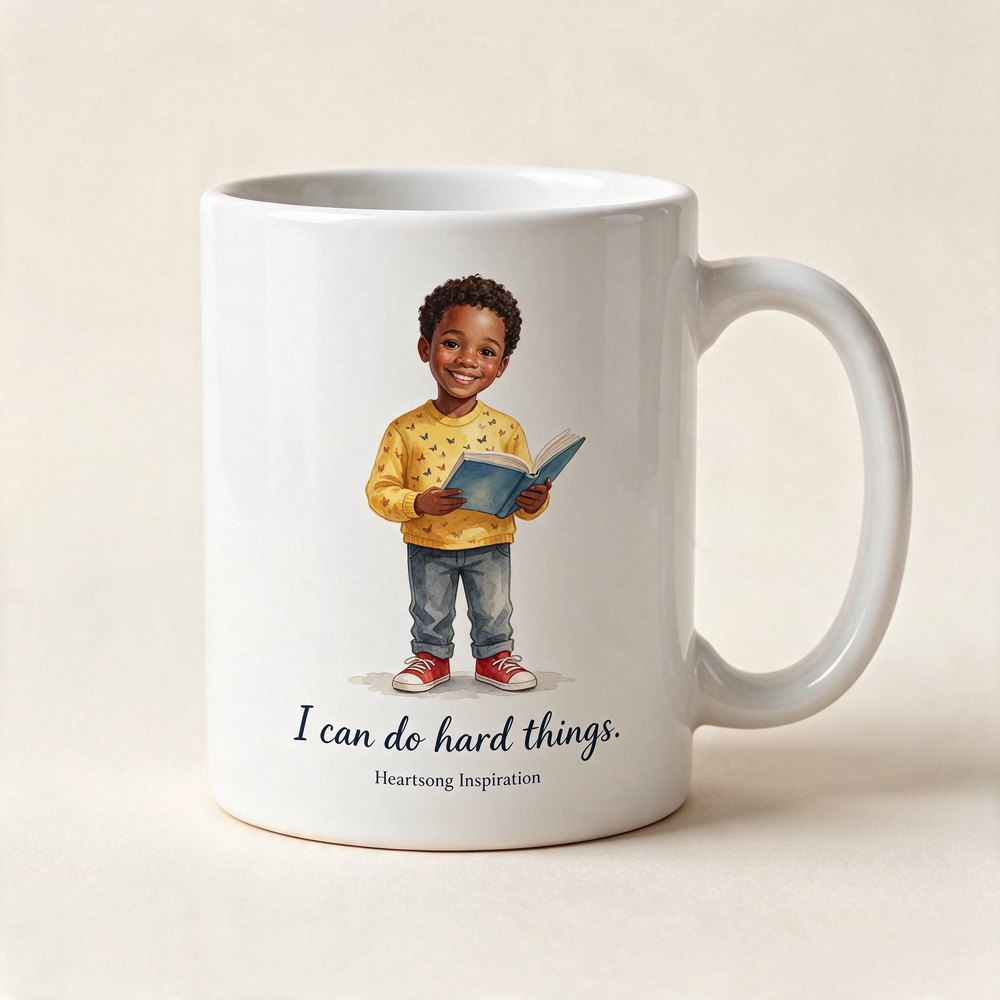
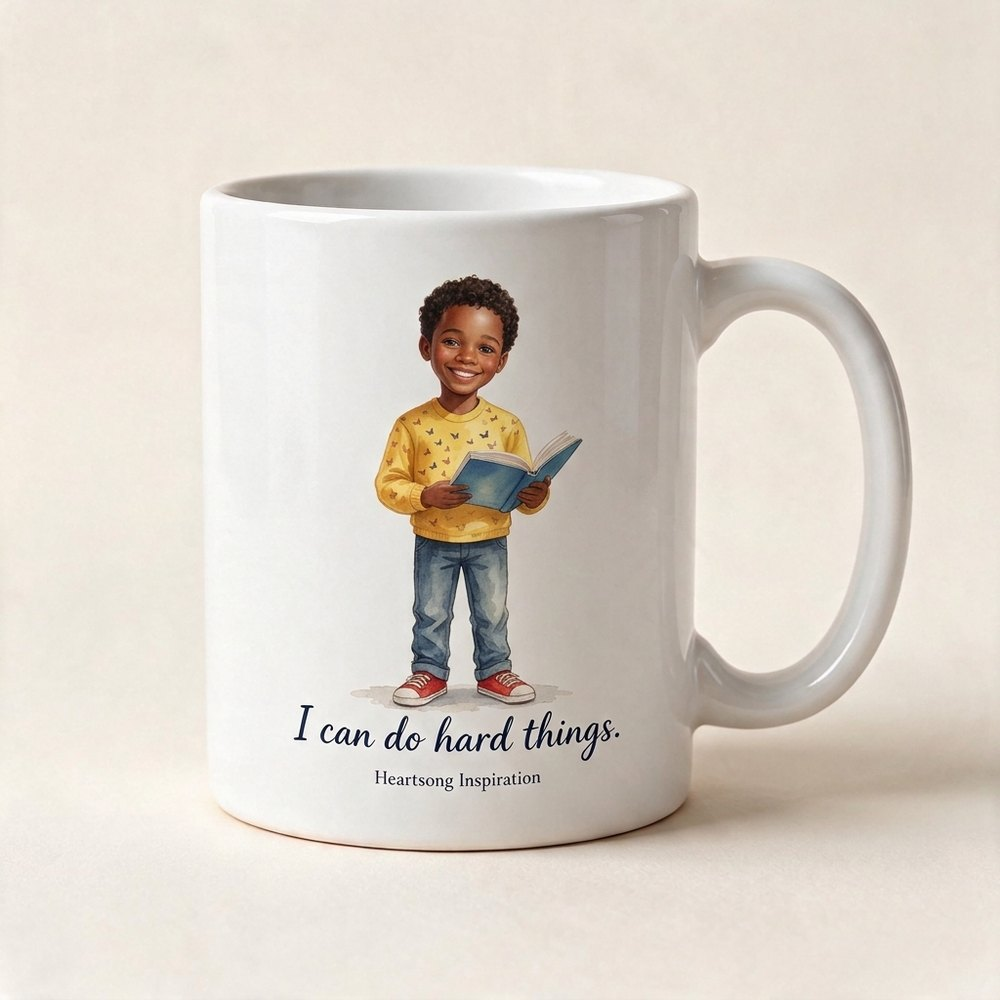
Gift shop: Isabella, Zaire, Ariana and Christopher at 3 T-shirts; boys' and Harmony's mugs redrawn with natural proportions
Claude-Session: https://claude.ai/code/session_01CVGGv13AbE92KNuvJFnBKC

Changed region(s): [[0.341, 0.279, 0.589, 0.713]]

diff --git a/index.html b/index.html
@@ -723,6 +723,10 @@ const GIFTS = [
   {t:"Harmony Mug", img:"shop-mug-harmony.jpg", alt:"White mug printed with Harmony dancing in her flower dress, with the words When you share your song, you find your home.", d:"Harmony dancing in her flower dress on a white mug, with her words: \u201cWhen you share your song, you find your home.\u201d"},
   {t:"Kyran Mug", img:"shop-mug-kyran.jpg", alt:"White mug printed with Kyran between two sunflowers with his bumblebee, with the words Always grow toward the light.", d:"Kyran among his sunflowers with his bumblebee buddy on a white mug, with his words: \u201cAlways grow toward the light.\u201d"},
   {t:"Jabari T-Shirt", img:"shop-shirt-jabari.jpg", alt:"White T-shirt printed with Jabari reaching for the stars, with the words My past does not get to write my future.", d:"Jabari reaching for the stars on a soft white tee, with his words: \u201cMy past does not get to write my future. It is part of my story. It is not the ending.\u201d"},
+  {t:"Isabella T-Shirt", img:"shop-shirt-isabella.jpg", alt:"White T-shirt printed with Isabella in her green dress holding her glowing lantern, with the words Carry your own light.", d:"Isabella holding her lantern high on a soft white tee, with her words: \u201cCarry your own light.\u201d"},
+  {t:"Zaire T-Shirt", img:"shop-shirt-zaire.jpg", alt:"White T-shirt printed with Zaire and his dragonfly wings by the pond, with the words Wonder lives in small things.", d:"Zaire with his dragonfly wings by the pond on a soft white tee, with his words: \u201cWonder lives in small things.\u201d"},
+  {t:"Ariana T-Shirt", img:"shop-shirt-ariana.jpg", alt:"White T-shirt printed with Ariana running through wildflowers with butterflies, with the words I run because I am free.", d:"Ariana running through the wildflowers on a soft white tee, with her words: \u201cI run because I am free.\u201d"},
+  {t:"Christopher at 3 T-Shirt", img:"shop-shirt-christopher3.jpg", alt:"White T-shirt printed with little Christopher chasing fireflies with his teddy bear, with the words Gentle hands are strong hands.", d:"Little Christopher chasing fireflies with his teddy bear on a soft white tee, with his words: \u201cGentle hands are strong hands.\u201d"},
   {t:"Group Hug Candle", img:"shop-candle-grouphug.jpg", alt:"Candle jar with a gold lid and a label showing six Heartsong friends in a circle hug, laughing up at the sky", d:"Six Heartsong friends in one big circle hug, on a candle for the people you hold close. Choose from six scents: Starlight (white sage and lavender), Golden Morning (cinnamon vanilla), Group Hug (warm vanilla and brown sugar), Sunflower Field (fresh citrus and honey), After the Storm (soft rain and cedar) and Sweet Dreams (chamomile and clean cotton)."}
 ];
 const SHOP = [
